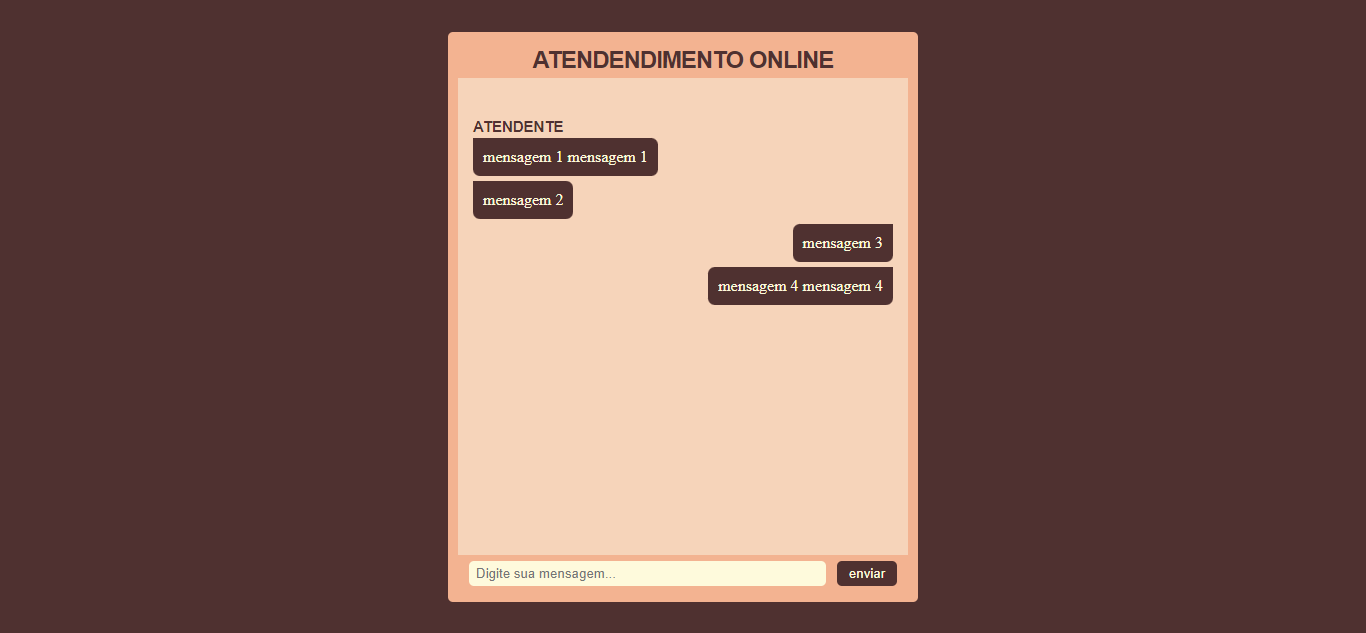
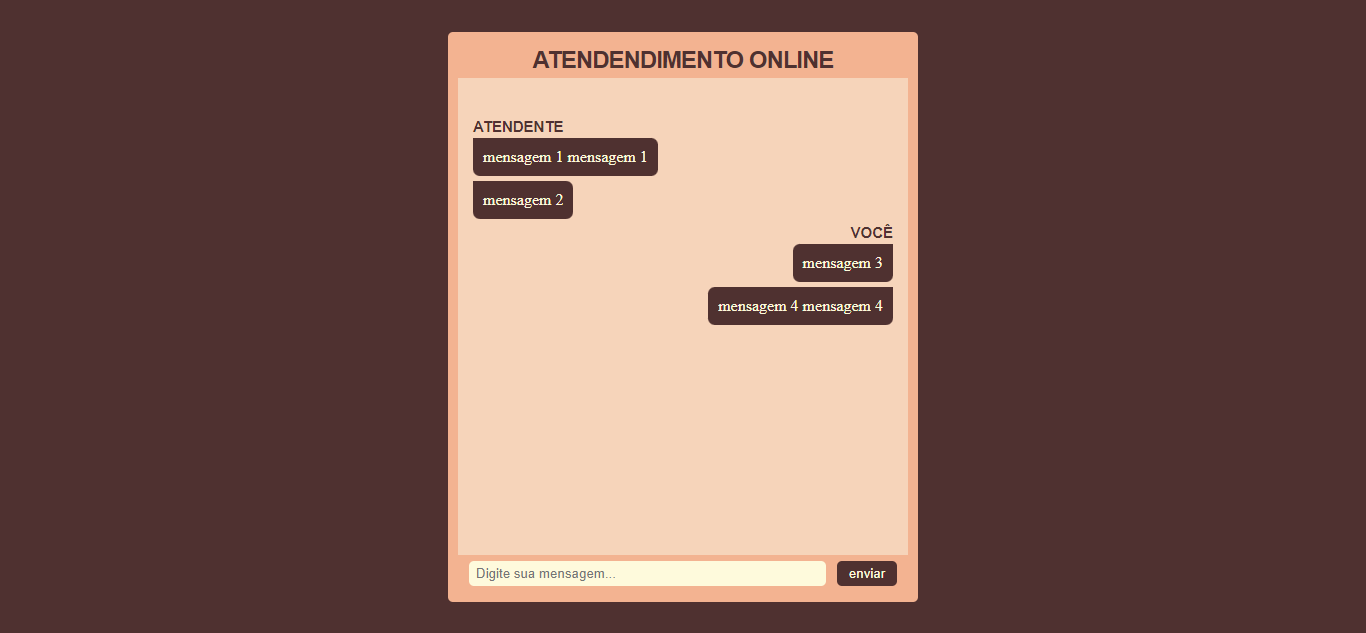
.

Changed region(s): [[0.4919, 0.3302, 0.6764, 0.5403]]

diff --git a/Ex01/style.css b/Ex01/style.css
@@ -82,6 +82,17 @@ main{
     margin-bottom: 3px;
 }
 
+#voce{
+    position: relative;
+    color: var(--cor3);
+    font-size: 15px;
+    font-family: "Teko", sans-serif;
+    font-weight: 600;
+    margin-bottom: 3px;
+    align-self: flex-end;
+}
+
+
 .msg{
     position: relative;
     background-color: var(--cor3);
@@ -142,5 +153,4 @@ input#txt:focus{
 #enviar:hover{
     background-color: #311f1f;
     transition: .3s;
-    
 }

diff --git a/Ex01/index.html b/Ex01/index.html
@@ -18,6 +18,7 @@
             <p class="msg atendente">mensagem 1 mensagem 1</p>
             <p class="msg atendente">mensagem 2</p>
 
+            <p id="voce">VOCÊ</p>
             <p class="msg usuario">mensagem 3</p>
             <p class="msg usuario">mensagem 4 mensagem 4</p>
         </main>
@@ -27,5 +28,6 @@
             <input type="button" value="enviar" id="enviar">
         </div>
     </div>
+
 </body>
 </html>
